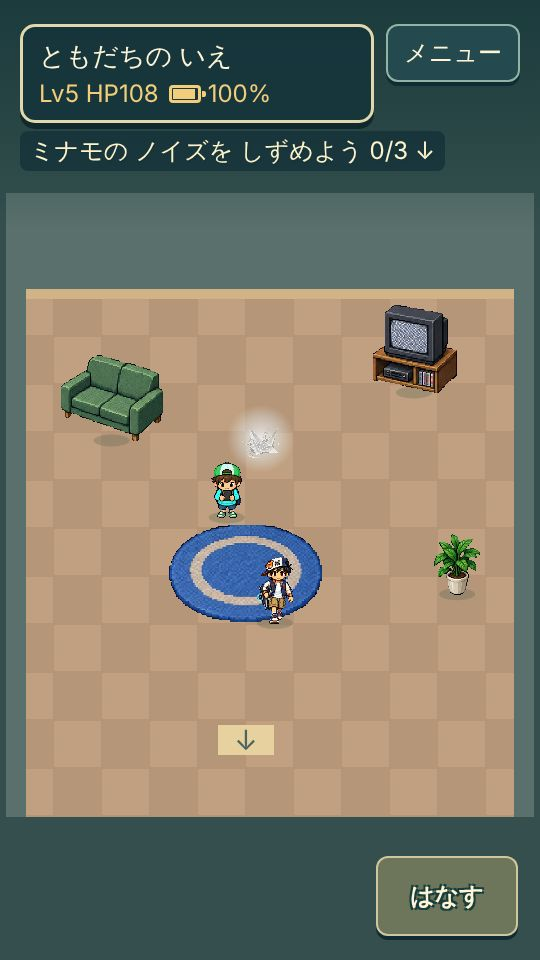
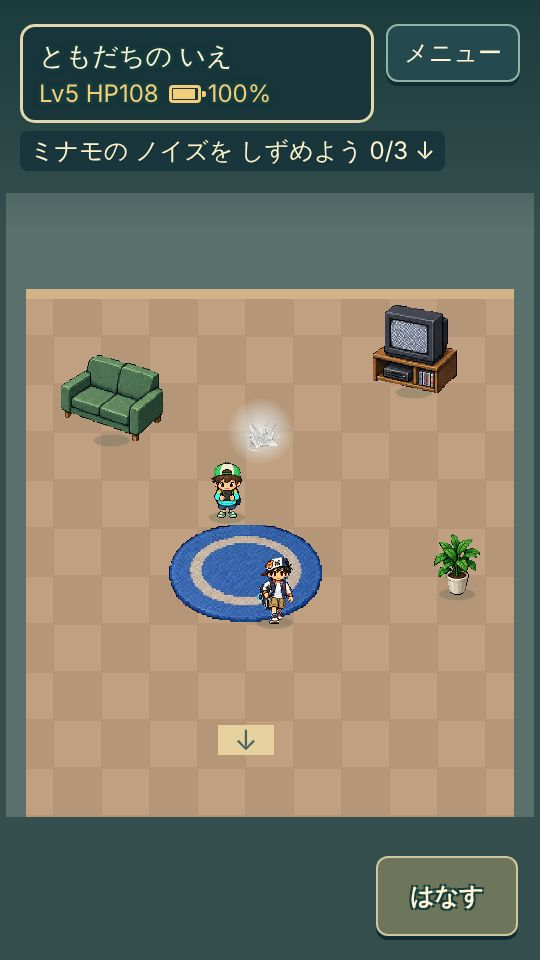
R185: 友だちの子の顔の色を残し、絵の依頼の参考を別のシートにした

Changed region(s): [[0.0593, 0.125, 0.6815, 0.1562], [0.4444, 0.4062, 0.5333, 0.5], [0.4148, 0.5, 0.4444, 0.5312]]

diff --git a/v5/index.html b/v5/index.html
@@ -651,11 +651,12 @@ function move(dt){if(protoActive||g.screen!=='field'||dialogue||modalKind||gameT
  const m=GAME_DATA.maps[g.map],cell=cellAt();if(cell!==onCell){onCell=cell;if(cell&&stepCell(cell))return;}if(gameTime>portalUntil){for(const p of m.portals){if(Math.hypot(g.x-p.x*TILE,g.y-p.y*TILE)<22){enterMap(p.to,...p.at);return;}}for(const o of m.objects.filter(o=>o.enter)){if(Math.abs(g.x-o.x*TILE)<26&&g.y>=o.y*TILE+4&&g.y<o.y*TILE+32&&dy<0){tryEnter(o);return;}}}if(gameTime>immuneUntil){for(const e of m.enemies){if(townCleared()||g.defeated[e.id]>gameTime)continue;const p=enemyPos(e);if(Math.hypot(g.x-p.x,g.y-p.y)<32){const def=GAME_DATA.enemies[e.type];if(g.level>=def.level+4){encounterWord(e.type);const ups=rewards(def);g.flags.zakoWins=(g.flags.zakoWins||0)+1;g.defeated[e.id]=gameTime+GAME_DATA.rules.respawn;toast(def.name+'は おとなしく なった！');if(ups){sfx.levelup();say(levelLines(ups));}}else startBattle(e.type,e.id);return;}}}}
 // Alpha-footprint colliders use the lowest opaque band of each trimmed frame; `top` lets name tags sit above the art.
 // Ready-made art that looks too much like another game's hero gets new colours until its own art arrives (R185, RULES 4).
-// Each rule is [hue from, hue to, least saturation, new hue]: the ミナモ boy's red cap turns green and his yellow shirt teal.
-const RECOLOR={'npc2:2_1':[[345,15,.45,135],[36,66,.45,178]]};
+// Each rule is [hue from, hue to, least saturation, new hue]: the ミナモ boy's red cap and shoes turn green and his yellow shirt teal.
+// skip is the face band (top and bottom, as parts of the height) so his mouth and eyes keep their colours; near-white stays white.
+const RECOLOR={'npc2:2_1':{skip:[.43,.6],rules:[[345,15,.45,135],[36,66,.45,178]]}};
 function hueOf(r,gr,b){const mx=Math.max(r,gr,b),mn=Math.min(r,gr,b),ch=mx-mn,l=(mx+mn)/2;if(!ch)return null;const s=ch/(1-Math.abs(2*l-1)),h=(mx===r?((gr-b)/ch+6)%6:mx===gr?(b-r)/ch+2:(r-gr)/ch+4)*60;return [h,s,l];}
 function fromHsl(h,s,l){const k=n=>(n+h/30)%12,a=s*Math.min(l,1-l),f=n=>l-a*Math.max(-1,Math.min(k(n)-3,9-k(n),1));return [f(0),f(8),f(4)].map(v=>Math.round(v*255));}
-function recolor(name,key,entry){const rules=RECOLOR[name+':'+key];if(!rules)return;try{const c=document.createElement('canvas');c.width=entry.w;c.height=entry.h;const cx=c.getContext('2d',{willReadFrequently:true});cx.drawImage(entry.img,0,0);const im=cx.getImageData(0,0,c.width,c.height),d=im.data;for(let i=0;i<d.length;i+=4){if(d[i+3]<16)continue;const hsl=hueOf(d[i]/255,d[i+1]/255,d[i+2]/255);if(!hsl)continue;const [h,s,l]=hsl;for(const [lo,hi,least,to] of rules){if(s<least||(lo<hi?h<lo||h>hi:h<lo&&h>hi))continue;[d[i],d[i+1],d[i+2]]=fromHsl(to,s,l);break;}}cx.putImageData(im,0,0);entry.img=c;entry.recolored=true;}catch(_){}}
+function recolor(name,key,entry){const plan=RECOLOR[name+':'+key];if(!plan)return;const {skip,rules}=plan;try{const c=document.createElement('canvas');c.width=entry.w;c.height=entry.h;const cx=c.getContext('2d',{willReadFrequently:true});cx.drawImage(entry.img,0,0);const im=cx.getImageData(0,0,c.width,c.height),d=im.data;for(let i=0;i<d.length;i+=4){const row=(i/4/c.width|0)/c.height;if(d[i+3]<16||row>=skip[0]&&row<skip[1])continue;const hsl=hueOf(d[i]/255,d[i+1]/255,d[i+2]/255);if(!hsl)continue;const [h,s,l]=hsl;if(l>.85)continue;for(const [lo,hi,least,to] of rules){if(s<least||(lo<hi?h<lo||h>hi:h<lo&&h>hi))continue;[d[i],d[i+1],d[i+2]]=fromHsl(to,s,l);break;}}cx.putImageData(im,0,0);entry.img=c;entry.recolored=true;}catch(_){}}
 function scanAlpha(img,entry){try{const scratch=document.createElement('canvas');scratch.width=img.naturalWidth;scratch.height=img.naturalHeight;const c=scratch.getContext('2d',{willReadFrequently:true});c.drawImage(img,0,0);const w=scratch.width,h=scratch.height,data=c.getImageData(0,0,w,h).data,solid=(x,y)=>data[(y*w+x)*4+3]>80;let bottom=-1,top=-1;for(let y=h-1;y>=0&&bottom<0;y--)for(let x=0;x<w;x++)if(solid(x,y)){bottom=y;break;}for(let y=0;y<h&&top<0;y++)for(let x=0;x<w;x++)if(solid(x,y)){top=y;break;}let left=w,right=0;const from=Math.max(0,bottom-Math.max(8,Math.floor(h*.16)));for(let y=from;y<=bottom;y++)for(let x=0;x<w;x++)if(solid(x,y)){left=Math.min(left,x);right=Math.max(right,x);}if(bottom>=0&&right>=left)entry.band={left:left/w,right:(right+1)/w,top:from/h,bottom:(bottom+1)/h};if(top>=0)entry.top=top/h;}catch(_){}}
 // Incomplete art is retried a few times (rules.assetRetries) and then left to the code-drawn stand-ins; `force` is the manual reload.
 async function loadAssets(force=false){if(loadingAssets)return;loadingAssets=true;const names=assetNames.filter(n=>force||((assetStatus[n]||0)<ASSET_COUNTS[n]&&(assetTries[n]||0)<=GAME_DATA.rules.assetRetries));for(const n of names)assetTries[n]=(assetTries[n]||0)+1;await Promise.all(names.map(async name=>{try{await platform.whenActive();const response=await fetch(assetDir(name)+name+'_frames.json');if(!response.ok)return;const list=await response.json();if(!Array.isArray(list))return;assets[name]??={};await Promise.all(list.map(async f=>{const key=f.row+'_'+f.col;if(assets[name][key]||!/^[-a-zA-Z0-9_]+\.png$/.test(f.file))return;await platform.whenActive();await new Promise(resolve=>{const img=new Image();img.onload=()=>{const entry={img,w:img.naturalWidth,h:img.naturalHeight};if(['buildings','neon','props','npc','npc2','interior','tower','summons'].includes(name))scanAlpha(img,entry);recolor(name,key,entry);assets[name][key]=entry;resolve();};img.onerror=resolve;img.src=assetDir(name)+f.file;});}));assetStatus[name]=Object.keys(assets[name]).length;}catch(_){assetStatus[name]=assetStatus[name]||0;}}));loadingAssets=false; // A late art arrival must not trap the player inside a new footprint.

diff --git a/autodev/ROADMAP.md b/autodev/ROADMAP.md
@@ -189,7 +189,7 @@
 - [x] R182 | コンビニの店員がレジの後ろで頭しか見えなかったので、上半身が見える位置に立たせた | tools/smoke_v5.cjs で全章を通し、スクショを確認役に見せて気になる所を挙げさせ、一番大きい1つを直す。直した所の前と後のスクショがある
 - [x] R183 | ボス戦で急に出てくる「フク」を、最初の会話でRYOSEIの虎の守護霊として紹介した | tools/smoke_v5.cjs で全章を通し、スクショを確認役に見せて気になる所を挙げさせ、一番大きい1つを直す。直した所の前と後のスクショがある
 - [x] R184 | ネオンの道しるべの矢印が見えない敵を指していたので、画面に見えている敵を先に指すようにした | tools/smoke_v5.cjs で全章を通し、スクショを確認役に見せて気になる所を挙げさせ、一番大きい1つを直す。直した所の前と後のスクショがある
-- [ ] R185 | 遊んで一番気になる所を1つ直す | tools/smoke_v5.cjs で全章を通し、スクショを確認役に見せて気になる所を挙げさせ、一番大きい1つを直す。直した所の前と後のスクショがある
+- [x] R185 | ミナモの友だちの子が、ほかのゲームの主人公に似た赤い帽子と黄色の服だったので、色を変えて新しい絵を頼んだ | tools/smoke_v5.cjs で全章を通し、スクショを確認役に見せて気になる所を挙げさせ、一番大きい1つを直す。直した所の前と後のスクショがある
 
 ## くりかえし
 

diff --git a/autodev/last_run.md b/autodev/last_run.md
@@ -1,7 +1,7 @@
-- ネオンの始めで、矢印が画面の外の敵（左）を指し、真下の敵を指していなかった
-- 道しるべは、画面に見えている敵を先に選び、いなければ一番近い敵を選ぶようにした
-- テストを足し、前と後のスクショを docs/shots/R184 に置いた
-次: ミナモの友だちの子の絵が既存のゲームの主人公に似ている件を、絵の依頼で直す
-時刻: 2026-10-23 16:59
-- 確認役が挙げた残り: タイトルの説明がボタンに見える、きずなの一覧に3人しか入らない
-- 時間の都合で、差分の確認役は立てず自分で読んだ。ブラウザの確認は手元で通した
+- ミナモの友だちの子が、ほかのゲームの主人公に似た赤い帽子と黄色の服だった
+- 新しい絵が届くまで、帽子と靴を緑、服を青緑にして描くようにした（顔と白い所は元の色）
+- 新しい少年の絵を絵係に頼んだ。前と後のスクショを docs/shots/R185 に置いた
+次: 絵が届いたら minamo_boy の絵に差し替え、index.html の RECOLOR を消す
+時刻: 2026-10-23 17:32
+- 決まりの「仮の絵は四角と名前」とちがい、今の絵の色を変えて使った。四角より遊びやすいため
+- 全章の通し確認（smoke）は時間内に終わらず、自動確認に任せた
